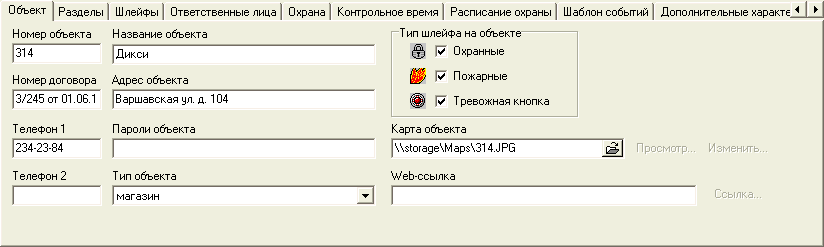
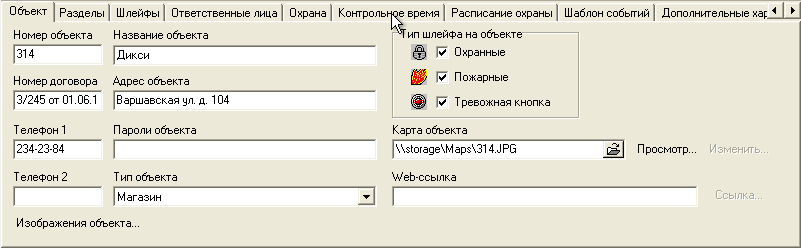
добавлено описание раздела "Изображения объектов"

diff --git a/russian/05-object-manager.md b/russian/05-object-manager.md
@@ -90,6 +90,20 @@
 
 Точно также в поле «Web-ссылка» можно указать путь к файлу описания объекта, созданного в специальном формате (AutoCad, 3D-Max). При щелчке по ссылке будет запущена программа, зарегистрированная в операционной системе для открытия такого файла.
 
+### Изображения объекта
+
+Кнопка "Изображения объекта..." позволяет загрузить с жесткого диска в Облако изображения выбранного для редактирования объекта в форматах PNG и JPEG. Данные изображения используются в приложении "Тревога в ГБР" для предоставления сотрудникам охранных предприятий информации о виде объекта и наиболее удобных подъездах к нему. 
+
+При нажатии кнопки "Изображения объекта..." открывается одноименное окно, предназначенное для загрузки изображений, а также для просмотра и удаления уже закачанных графических файлов. 
+
+Важно: передача изображений в Облако возможна при выполненном подключении к Облаку и открытых портах 80 и 443 протокола TCP. Размер загружаемого изображения не должен превышать 5 МБ.
+
+Выбрать одно или несколько изображений для загрузки можно с помощью кнопки "Выбрать" в адресной строке "Файлы". После этого следует нажать кнопку "Отправить". Индикатор выполнения в поле "Прогресс" отобразит статус загрузки выбранных изображений. Закрывать окно "Изображения объекта" или выбирать новые графические файлы для закачивания нельзя до окончания загрузки предыдущих.
+
+![Вкладка «Объект»: изображения объекта](/img/ObjMngr-04-ObjectImage-03.png)
+
+Для удаления загруженного изображения необходимо навести курсор на его миниатюру в окне "Изображения объекта" и кликнуть на появляющемся при этом значке "Корзина".
+
 ## Вкладка «Разделы»
 
 Вкладка «Разделы» позволяет сохранить информацию о том, на какие разделы (области) разбит объект и какое оборудование используется для организации разделов на объекте. 
